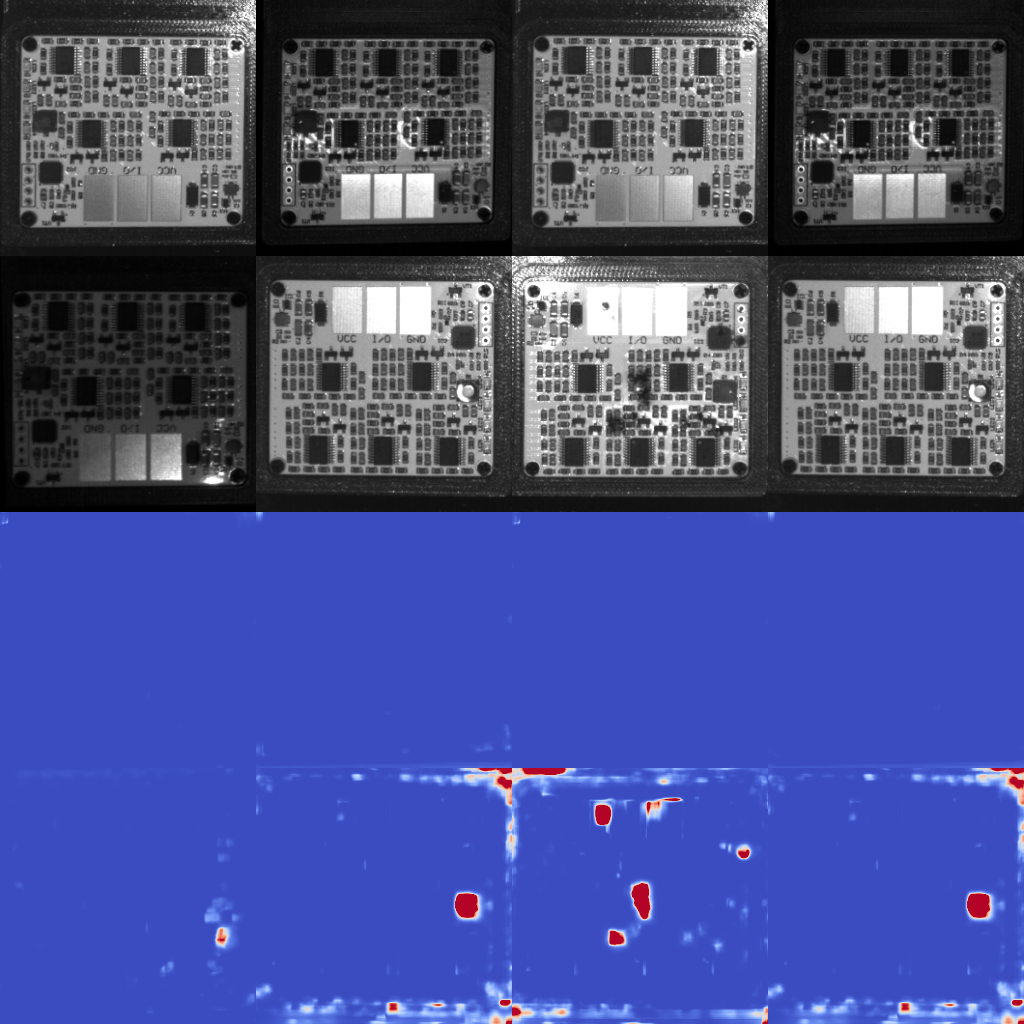
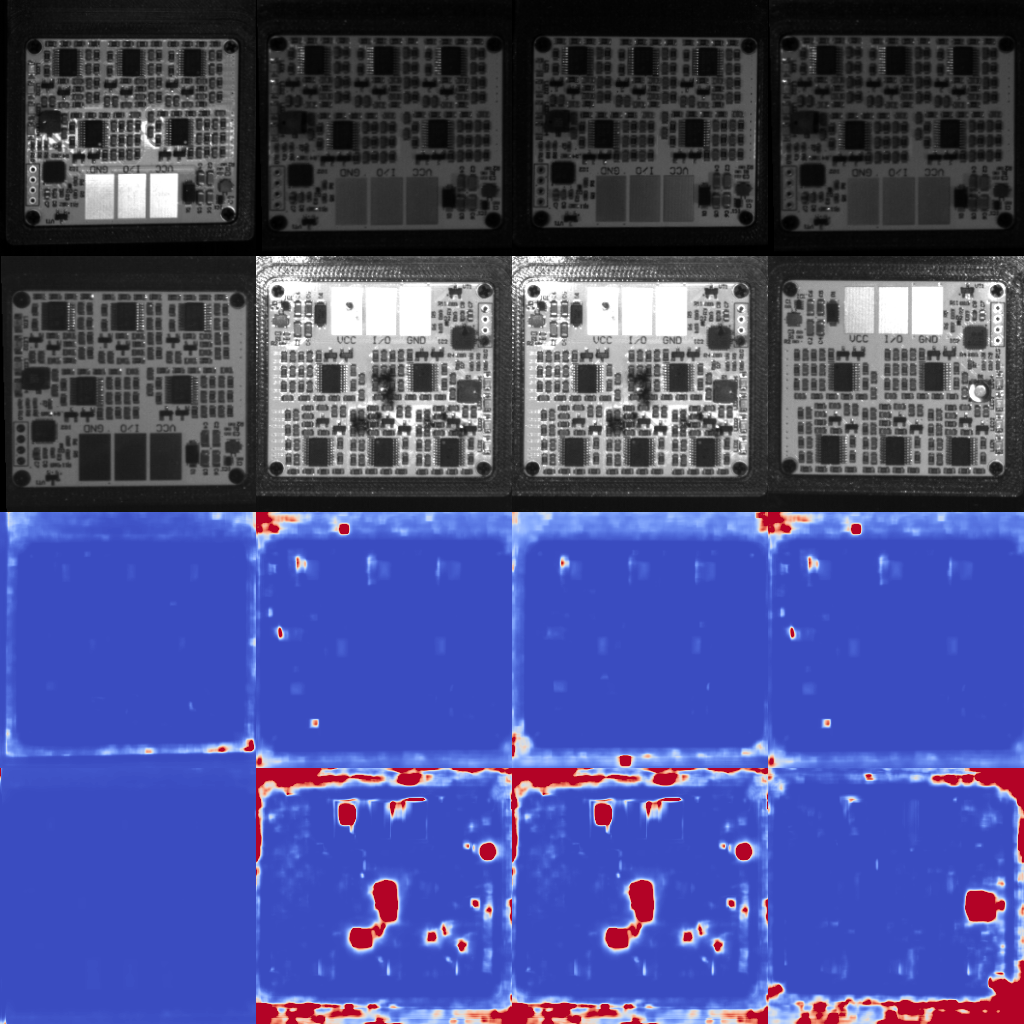
Add files via upload

diff --git a/DiscQualityCheckAPI.py b/DiscQualityCheckAPI.py
@@ -15,16 +15,16 @@ import torchvision
 class DiscQualityCheckApi:
 	def __init__(self, DEVICE):
 		self.model = EdgeRestoreModel()
-		self.model_weights = "/Users/artemmoroz/Desktop/CIIRC_projects/PcbAnnomalyRecognition/Model4.pt"
+		self.model_weights = "/Users/artemmoroz/Desktop/CIIRC_projects/PcbAnnomalyRecognition/Model5.pt"
 		self.DEVICE = DEVICE
-		#self.initialize_model()
-		self.image_size = 256
+		self.initialize_model()
+		self.image_size = 512
 		self.num_chunks = 4
 		self.square_sizes = [2 ** i for i in range(4, 7)]
 		self.grid_sizes = [self.image_size // i for i in self.square_sizes]
 		self.num_grid_scales = len(self.grid_sizes)
 		self.num_scales = 3
-		self.image_size_multiscale = [256, 128, 64]
+		self.image_size_multiscale = [self.image_size, self.image_size//2, self.image_size//4]
 		self.grid_coords = list()
 		self.K1 = 0.01
 		self.K2 = 0.03
@@ -82,7 +82,7 @@ class DiscQualityCheckApi:
 		contrast_sim = (2 * torch.sqrt(prediction_std_map + 1e-4) * torch.sqrt(ground_truth_std_map + 1e-4) + self.C1) / (prediction_std_map + ground_truth_std_map + self.C1)
 		content_sim = (joint_std_map + self.C1) / (torch.sqrt(prediction_std_map + 1e-4) * torch.sqrt(ground_truth_std_map + 1e-4) + self.C1)
 
-		ssim_map = content_sim ** 1 * brightness_sim ** 1 * contrast_sim ** 1
+		ssim_map = content_sim ** 2 * brightness_sim ** 1 * contrast_sim ** 1
 		ssim_map = self.resize_tensor(ssim_map, in_painted_image_tensor.shape[2])
 
 		return 1 - ssim_map, torch.mean(1 - ssim_map)
@@ -207,16 +207,12 @@ class DiscQualityCheckApi:
 				similarity_maps = similarity_maps.reshape(self.num_images, self.num_grid_scales, 1, similarity_maps.shape[-1], similarity_maps.shape[-1])
 				similarity_maps = (similarity_maps[:, 0, ...] * similarity_maps[:, 1, ...] + \
 				                  similarity_maps[:, 1, ...] * similarity_maps[:, 2, ...])
-				#print(similarity_maps.shape)
-				#self.visualize_torch_tensor(similarity_maps[0, ...])
-				#similarity_maps = (similarity_maps[:, 0, ...] + similarity_maps[:, 1, ...] + similarity_maps[:, 2, ...]) / 3
+
 				multiscale_sim_maps.append(similarity_maps)
 			multi_window_maps.append(multiscale_sim_maps)
 		multiscale_sim_maps = list()
 		for scale_num in range(self.num_scales):
-			multiscale_sim_maps.append((multi_window_maps[0][scale_num] + multi_window_maps[1][scale_num] + multi_window_maps[2][scale_num]) / 3)# + multi_window_maps[1][scale_num] *
-		# multi_window_maps[2][scale_num])/2) #*
-		# multi_window_maps[2][scale_num])
+			multiscale_sim_maps.append((multi_window_maps[0][scale_num] + multi_window_maps[1][scale_num] + multi_window_maps[2][scale_num]) / 3)
 
 		return multiscale_sim_maps
 
@@ -344,7 +340,7 @@ class DiscQualityCheckApi:
 			gradient_similarity = self.combine_multiscale_maps(multiscale_grad_sim_maps)
 			image_similarity = self.combine_multiscale_maps(multiscale_image_sim_maps)
 
-			total_defect_map = (gradient_similarity + image_similarity)/2
+			total_defect_map = (gradient_similarity + image_similarity)
 
 			heatmap_batch, defect_scores = self.get_rgb_heatmap(total_defect_map, in_painted_images_combined, images_batch)
 			print(defect_scores)
@@ -373,11 +369,11 @@ if __name__ == "__main__":
 	range_min = 0
 	range_max = 200
 	for image_name in images_list:
-		image1 = cv2.imread(f"/Users/artemmoroz/Desktop/CIIRC_projects/PcbAnnomalyRecognition/Images/CroppedPositive/pcb_{random.randint(0, 200)}.png", 0)
-		image2 = cv2.imread(f"/Users/artemmoroz/Desktop/CIIRC_projects/PcbAnnomalyRecognition/Images/CroppedPositive/pcb_{random.randint(0, 200)}.png", 0)
-		image3 = cv2.imread(f"/Users/artemmoroz/Desktop/CIIRC_projects/PcbAnnomalyRecognition/Images/CroppedPositive/pcb_{random.randint(0, 200)}.png", 0)
-		image4 = cv2.imread(f"/Users/artemmoroz/Desktop/CIIRC_projects/PcbAnnomalyRecognition/Images/CroppedPositive/pcb_{random.randint(0, 200)}.png", 0)
-		image5 = cv2.imread(f"/Users/artemmoroz/Desktop/CIIRC_projects/PcbAnnomalyRecognition/Images/CroppedPositive/pcb_{random.randint(0, 200)}.png", 0)
+		image1 = cv2.imread(f"/Users/artemmoroz/Desktop/CIIRC_projects/PcbAnnomalyRecognition/Images/CroppedPositive/pcb_{random.randint(200, 206)}.png", 0)
+		image2 = cv2.imread(f"/Users/artemmoroz/Desktop/CIIRC_projects/PcbAnnomalyRecognition/Images/CroppedPositive/pcb_{random.randint(200, 206)}.png", 0)
+		image3 = cv2.imread(f"/Users/artemmoroz/Desktop/CIIRC_projects/PcbAnnomalyRecognition/Images/CroppedPositive/pcb_{random.randint(200, 206)}.png", 0)
+		image4 = cv2.imread(f"/Users/artemmoroz/Desktop/CIIRC_projects/PcbAnnomalyRecognition/Images/CroppedPositive/pcb_{random.randint(200, 206)}.png", 0)
+		image5 = cv2.imread(f"/Users/artemmoroz/Desktop/CIIRC_projects/PcbAnnomalyRecognition/Images/CroppedPositive/pcb_{random.randint(200, 206)}.png", 0)
 		image6 = cv2.imread(f"/Users/artemmoroz/Desktop/CIIRC_projects/PcbAnnomalyRecognition/Images/CroppedNegative/pcb_{random.randint(0, 1)}.png", 0)
 		image7 = cv2.imread(f"/Users/artemmoroz/Desktop/CIIRC_projects/PcbAnnomalyRecognition/Images/CroppedNegative/pcb_{random.randint(0, 1)}.png", 0)
 		image8 = cv2.imread(f"/Users/artemmoroz/Desktop/CIIRC_projects/PcbAnnomalyRecognition/Images/CroppedNegative/pcb_{random.randint(0, 1)}.png", 0)

diff --git a/TrainModel.py b/TrainModel.py
@@ -95,7 +95,7 @@ def one_epoch(models, optimizers, dataloader, is_training=True):
 
 
 def main(model, optimizer,  training_dataloader, validation_dataloader):
-	for epoch in range(2000, 5001):
+	for epoch in range(0, 5001):
 		since = time.time()
 		change_learning_rate(optimizer, epoch)
 
@@ -117,7 +117,7 @@ def main(model, optimizer,  training_dataloader, validation_dataloader):
 
 if __name__ == "__main__":
 	model = EdgeRestoreModel().to(DEVICE).apply(init_weights)
-	model.load_state_dict(torch.load("./Model4.pt", map_location="cpu"))
+	model.load_state_dict(torch.load("./Model5.pt", map_location="cpu"))
 	optimizer = torch.optim.Adam(lr=LEARNING_RATE, params=model.parameters())
 
 	train_dataset = DiskAnomalyDataset(data_augmentation=augmentation_training if APPLY_AUGMENTATION else None, use_multiscale=False)

diff --git a/LoadDataset.py b/LoadDataset.py
@@ -9,7 +9,7 @@ from TrainConfig import *
 class DiskAnomalyDataset(torch.utils.data.Dataset):
 	def __init__(self, data_augmentation=None, use_multiscale=False):
 		super(DiskAnomalyDataset, self).__init__()
-		self.num_images = 200
+		self.num_images = 97
 		self.data_augmentation = data_augmentation
 		self.use_multiscale = use_multiscale
 		self.im_size = IMAGE_SIZE
@@ -66,9 +66,9 @@ class DiskAnomalyDataset(torch.utils.data.Dataset):
 
 	@staticmethod
 	def random_crop(image):
-		size = random.randint(285, 299)
-		x_coord = random.randint(0, 300 - size - 1)
-		y_coord = random.randint(0, 300 - size - 1)
+		size = random.randint(450, 500)
+		x_coord = random.randint(0, 500 - size - 1)
+		y_coord = random.randint(0, 500 - size - 1)
 
 		return image[y_coord:y_coord + size, x_coord:x_coord + size]
 

diff --git a/process_raw_images.py b/process_raw_images.py
@@ -1,0 +1,15 @@
+import os
+import cv2
+import numpy as np
+
+images_names = os.listdir("/Users/artemmoroz/Desktop/CIIRC_projects/PcbAnnomalyRecognition/nova")
+counter = 0
+for image_name in images_names:
+    image_paded = np.zeros(shape=(500, 500, 3), dtype=np.uint8)
+    image = cv2.imread(f"/Users/artemmoroz/Desktop/CIIRC_projects/PcbAnnomalyRecognition/nova/{image_name}")
+    image_paded[34:-34, ...] = image
+    cv2.imwrite(f"/Users/artemmoroz/Desktop/CIIRC_projects/PcbAnnomalyRecognition/ImagesNew/pcb_{counter}.png", image_paded)
+    counter += 1
+    #print(np.max(image_paded), np.min(image_paded))
+    #cv2.imshow("image paded", image_paded)
+    #cv2.waitKey(0)

diff --git a/TrainConfig.py b/TrainConfig.py
@@ -1,6 +1,6 @@
 import torch
 
-LEARNING_RATE = 0.00075
+LEARNING_RATE = 0.0025
 BATCH_SIZE = 20
 APPLY_AUGMENTATION = True
 
@@ -8,6 +8,6 @@ DEVICE = "mps" if getattr(torch, 'has_mps', False) else 7 if torch.cuda.is_avail
 
 NUM_MASK_SCALES = 3
 IMAGE_SIZE = 256
-MODEL_NAME = "Model5"
+MODEL_NAME = "Model256"
 LossCoefficients = {"L1": 5, "SSIM": 1, "GradL1": 1, "GradSSIM": 1}
 
